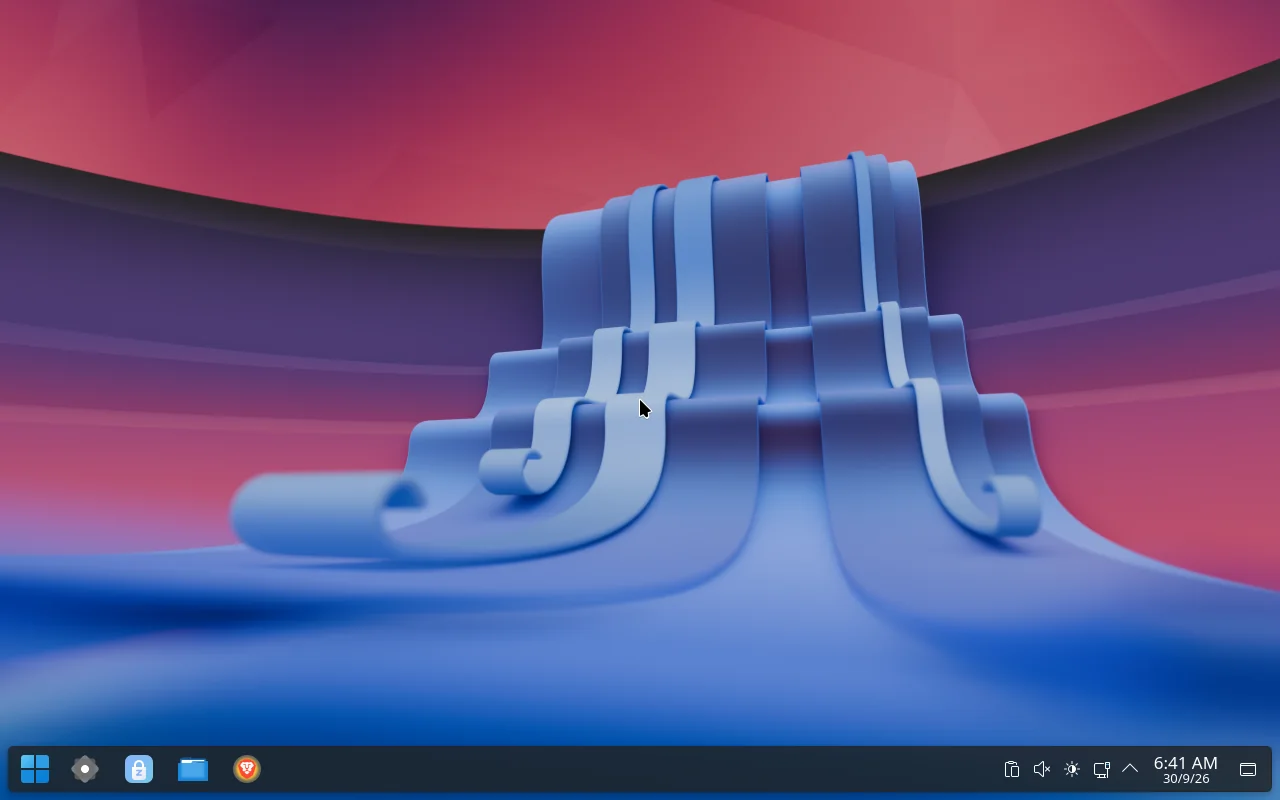
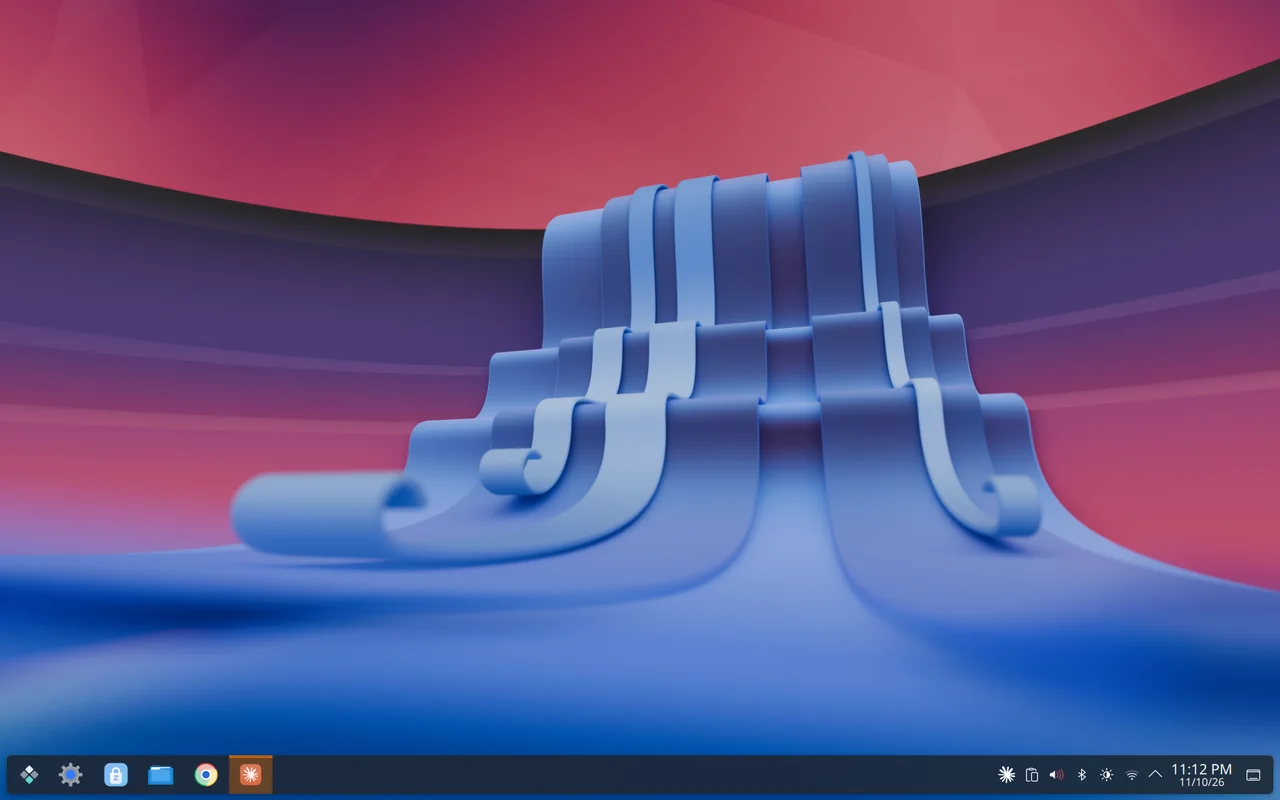
Hero picture: new screenshot of the Zohara OS 1.1 desktop (also the link preview image)

Changed region(s): [[0.0, 0.9062, 1.0, 1.0], [0.5, 0.5, 0.5312, 0.5312]]

diff --git a/index.html b/index.html
@@ -50,7 +50,7 @@
           <p class="fine">Free and open source. x86_64 PCs. Still being finished; see <a href="#status">status</a>.</p>
         </div>
         <figure class="hero-shot">
-          <img src="assets/img/desktop.webp" width="1280" height="800" alt="The Zohara OS desktop: a blue and coral wallpaper, with a taskbar along the bottom holding the Start button, Settings, Software Store, Files and Brave Origin.">
+          <img src="assets/img/desktop.webp" width="1280" height="800" alt="The Zohara OS desktop: a blue and coral wallpaper, with a taskbar along the bottom holding the Start button, Settings, Software Store, Files and Google Chrome.">
         </figure>
       </div>
     </section>
